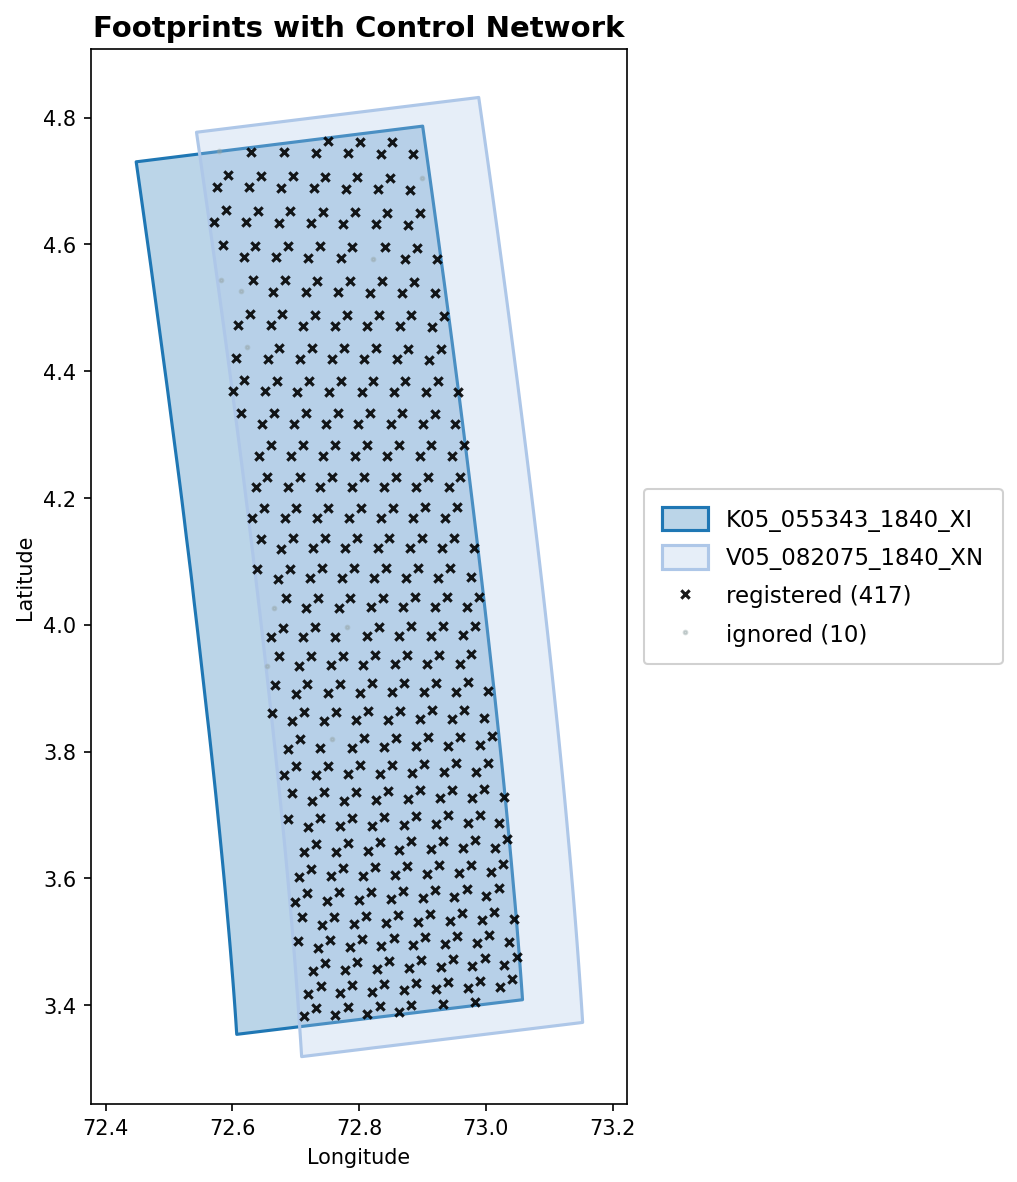
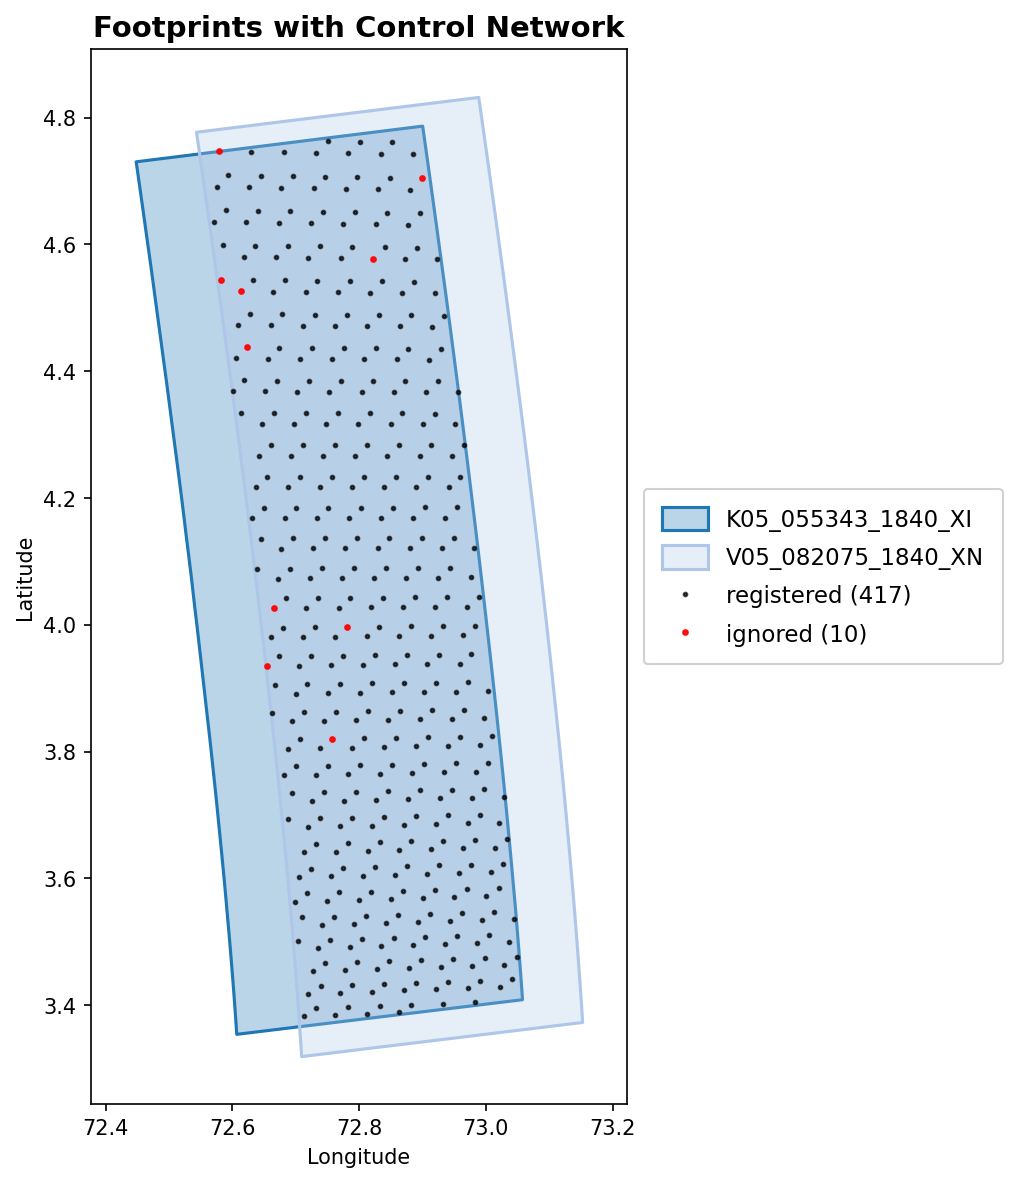
Restyle cnet overlay: dots for registered, red for ignored
Registered points now use small black dots instead of crosses
(less visual clutter). Ignored points are red and more prominent,
making QA issues immediately visible.

Changed region(s): [[0.2134, 0.1218, 0.5182, 0.8528]]

diff --git a/src/isistools/plotting/footprint_mpl.py b/src/isistools/plotting/footprint_mpl.py
@@ -79,9 +79,9 @@ def _plot_footprints(
             cnet_df, cube_paths=cube_paths, clock_lookup=clock_lookup,
         )
         _cnet_mpl_styles = {
-            "registered": {"color": "black", "marker": "x", "markersize": 16, "alpha": 0.9},
+            "registered": {"color": "black", "marker": "o", "markersize": 3, "alpha": 0.7},
             "unregistered": {"color": "#e74c3c", "marker": "o", "markersize": 4, "alpha": 0.7},
-            "ignored": {"color": "#95a5a6", "marker": "o", "markersize": 3, "alpha": 0.4},
+            "ignored": {"color": "red", "marker": "o", "markersize": 5, "alpha": 0.9},
         }
         for status, style in _cnet_mpl_styles.items():
             sub = cnet_gdf[cnet_gdf["status"] == status]

diff --git a/src/isistools/plotting/cnet_overlay.py b/src/isistools/plotting/cnet_overlay.py
@@ -120,9 +120,9 @@ def cnet_points_map(
 
     # Styles matching the --win matplotlib path
     _map_styles = {
-        "registered": {"color": "black", "marker": "x", "size": 160, "alpha": 0.9},
+        "registered": {"color": "black", "marker": "circle", "size": 30, "alpha": 0.7},
         "unregistered": {"color": "#e74c3c", "marker": "circle", "size": 40, "alpha": 0.7},
-        "ignored": {"color": "#95a5a6", "marker": "circle", "size": 30, "alpha": 0.4},
+        "ignored": {"color": "red", "marker": "circle", "size": 50, "alpha": 0.9},
     }
 
     overlays = []
